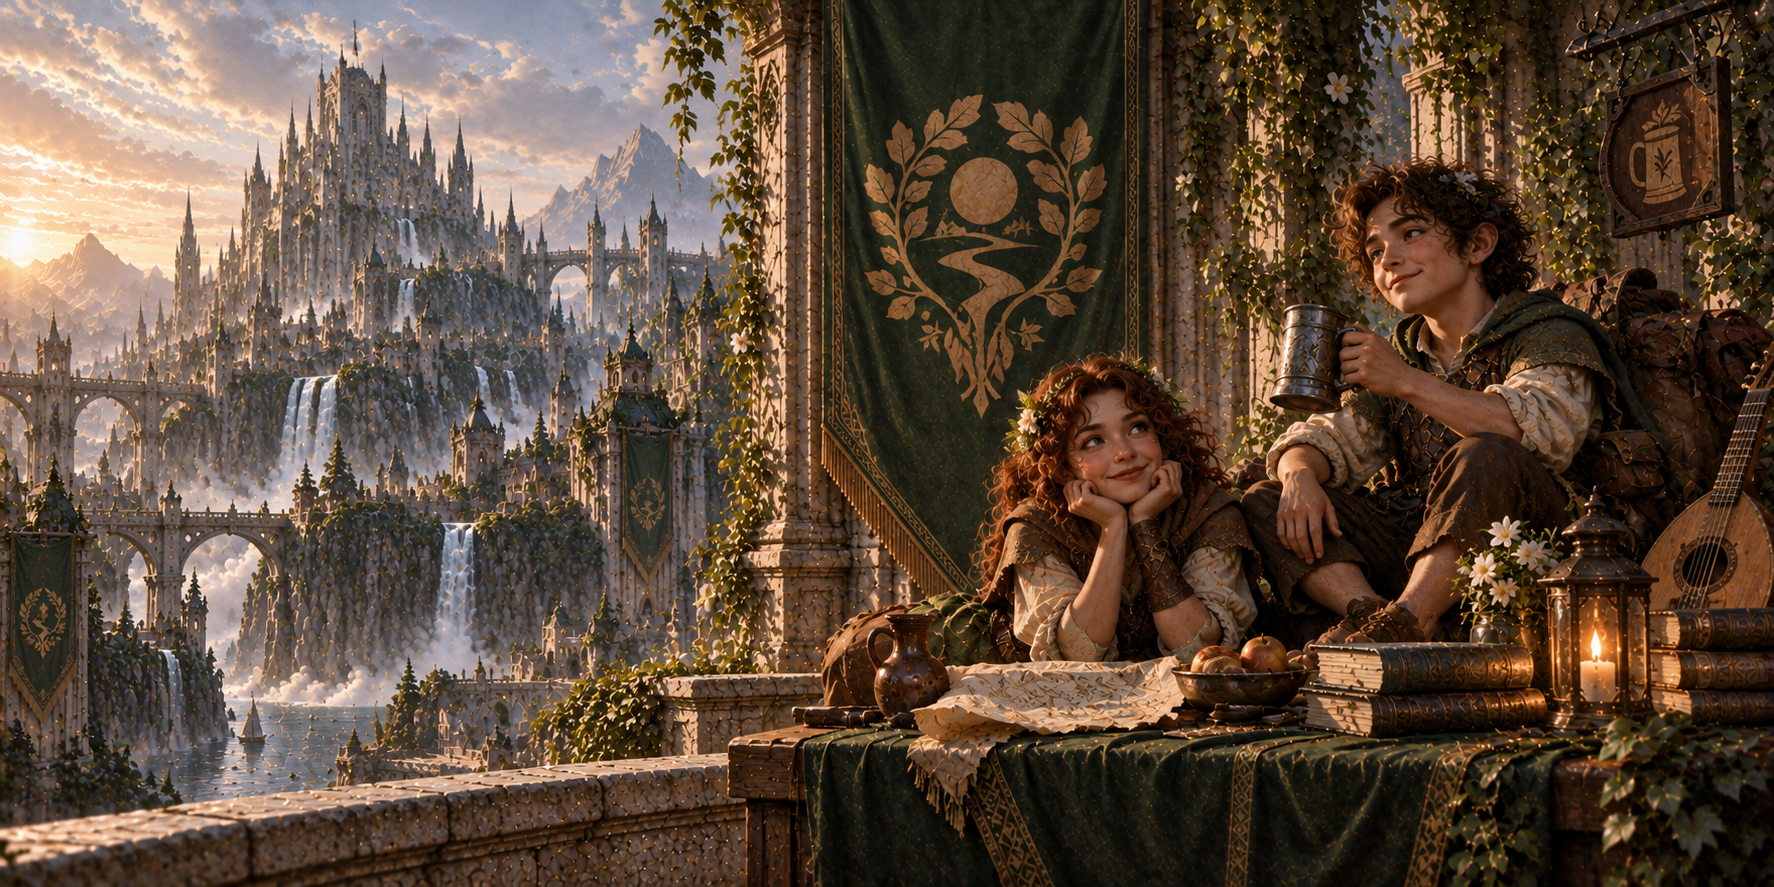
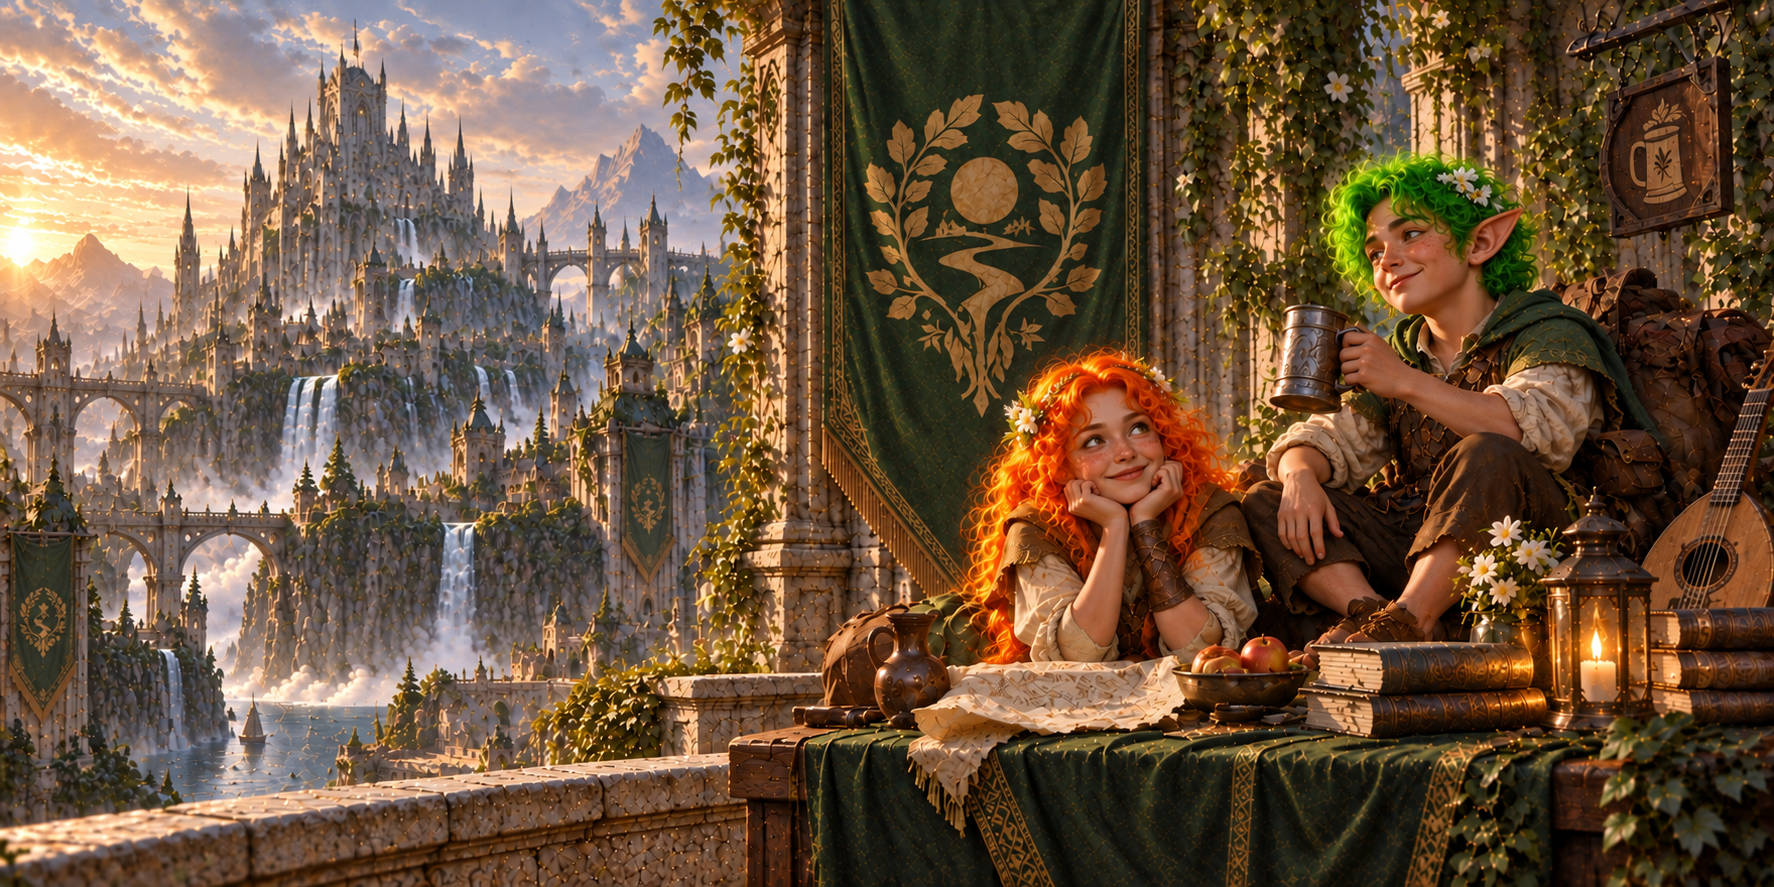
Rules and changes to Player's Handbook

diff --git a/components/rules/public-rules.tsx b/components/rules/public-rules.tsx
@@ -200,7 +200,7 @@ const categoryComparison =
             </p>
 
             <h1 className="mt-1 font-serif text-3xl leading-none text-[rgb(var(--sep-colour-ead5ac))] components_rules_public_rules_h1_rules">
-              Rules
+              Player's Handbook
             </h1>
           </div>
 
@@ -215,7 +215,7 @@ const categoryComparison =
               placeholder={
                 glossaryOpen
                   ? "Search glossary..."
-                  : "Search rules..."
+                  : "Search entry..."
               }
               className="h-9 min-w-0 flex-1 border border-[rgb(var(--sep-colour-60482e))]/45 bg-[rgb(var(--sep-colour-15100d))] px-3 text-xs text-[rgb(var(--sep-colour-d6c3a3))] outline-none placeholder:text-[rgb(var(--sep-colour-655c50))] focus:border-[rgb(var(--sep-colour-9a7445))] components_rules_public_rules_input_field"
             />
@@ -250,7 +250,7 @@ const categoryComparison =
     .join(" ")}
 >
   {glossaryOpen
-    ? "← Back to Rules"
+    ? "← Back to Player's Handbook"
     : "Glossary"}
 </button>
           </div>
@@ -316,7 +316,7 @@ const categoryComparison =
 >
             <div className="flex h-9 items-center justify-between border-b border-[rgb(var(--sep-colour-60482e))]/35 px-3 components_rules_public_rules_div_container_5">
               <p className="text-[8px] uppercase tracking-[0.2em] text-[rgb(var(--sep-colour-816a4d))] components_rules_public_rules_p_text">
-                Rule index
+                Index
               </p>
 
               <span className="text-[9px] text-[rgb(var(--sep-colour-756958))] components_rules_public_rules_span_text">
@@ -333,7 +333,7 @@ const categoryComparison =
               0 ? (
                 <p className="p-3 text-xs leading-5 text-[rgb(var(--sep-colour-766b5d))] components_rules_public_rules_p_text_2">
                   No matching published
-                  rules.
+                  entry.
                 </p>
               ) : (
                 <div className="space-y-1 components_rules_public_rules_div_container_7">
@@ -410,7 +410,7 @@ const categoryComparison =
       htmlFor="mobile-rule-select"
       className="mb-1.5 block text-[8px] uppercase tracking-[0.2em] text-[rgb(var(--sep-colour-816a4d))]"
     >
-      Choose Rule
+      Choose Entry
     </label>
 
     <select
@@ -487,7 +487,7 @@ const categoryComparison =
             />
           ) : (
             <div className="p-8 text-center text-sm text-[rgb(var(--sep-colour-7d7161))] components_rules_public_rules_div_container_8">
-              Select a rule from the
+              Select an entry from the
               index.
             </div>
           )}
@@ -539,7 +539,7 @@ function RulePanel({
     <>
       <header className="border-b border-[rgb(var(--sep-colour-60482e))]/35 px-5 py-4 sm:px-7 components_rules_public_rules_header_header_2">
         <p className="text-[7px] uppercase tracking-[0.24em] text-[rgb(var(--sep-colour-8d6f48))] components_rules_public_rules_p_text_3">
-          Official rule
+          Official entry
         </p>
 
         <h2 className="mt-1 font-serif text-2xl text-[rgb(var(--sep-colour-e2c99c))] components_rules_public_rules_h2_heading">
@@ -564,7 +564,7 @@ function RulePanel({
         0 ? (
           <div className="mt-6 border-t border-[rgb(var(--sep-colour-60482e))]/30 pt-4 components_rules_public_rules_div_container_10">
             <p className="mb-2 text-[8px] uppercase tracking-[0.19em] text-[rgb(var(--sep-colour-79664c))] components_rules_public_rules_p_text_4">
-              Related rules
+              Related Entry
             </p>
 
             <div className="flex flex-wrap gap-2 components_rules_public_rules_div_container_11">
@@ -692,7 +692,7 @@ function GlossaryPanel({
                     }
                     className="mt-3 text-[8px] uppercase tracking-[0.15em] text-[rgb(var(--sep-colour-9a7547))] hover:text-[rgb(var(--sep-colour-dfbd84))] components_rules_public_rules_button_related_rule"
                   >
-                    Related rule →
+                    Related entry →
                   </button>
                 ) : null}
               </article>

diff --git a/components/portal/mobile-portal-navigation.tsx b/components/portal/mobile-portal-navigation.tsx
@@ -772,10 +772,10 @@ const moreDragging =
 
   const ruleEntry: LinkEntry = {
     href: "/rules",
-    label: "Rules",
+    label: "Player's Handbook",
     icon: "/icons/rules.png",
     modal: {
-      label: "Rules",
+      label: "Player's Handbook",
       title:
         "Read the official game rules and off-game documentation.",
       icon: "/icons/rules.png",
@@ -1335,7 +1335,7 @@ const moreDragging =
                           src="/icons/rules.png"
                         />
                         <span className="min-w-0 flex-1 truncate text-[10px] uppercase tracking-[0.16em] !text-[rgb(var(--sep-colour-b6a894))] components_portal_mobile_portal_navigation_span_text_4">
-                          Rules
+                          Player's Handbook
                         </span>
                       </button>
 

diff --git a/app/(portal)/admin/rules/page.tsx b/app/(portal)/admin/rules/page.tsx
@@ -154,7 +154,7 @@ export default async function AdminRulesPage() {
             rel="noreferrer"
             className="border border-[rgb(var(--sep-colour-60482e))]/45 bg-[rgb(var(--sep-colour-17110d))] px-3 py-2 text-[8px] uppercase tracking-[0.15em] text-[rgb(var(--sep-colour-a78d68))] hover:border-[rgb(var(--sep-colour-8d693e))] hover:text-[rgb(var(--sep-colour-d8bb8a))] admin_rules_page_a_view_public_rules"
           >
-            View public Rules ↗
+            View Player's Handbook ↗
           </a>
         </header>
 

diff --git a/components/homepage/sepulchria-homepage.tsx b/components/homepage/sepulchria-homepage.tsx
@@ -23,7 +23,7 @@ const PRIMARY_LINKS = [
     icon: "/icons/homepage/codex.png",
   },
   {
-    label: "Rules",
+    label: "Player's Handbook",
     eyebrow: "Understand",
     href: "/rules",
     icon: "/icons/homepage/rules.png",
@@ -810,7 +810,7 @@ export function SepulchriaHomepage({
   onClick={() => {
     setAboutOpen(false);
     setPublicModal({
-      title: "Rules",
+      title: "Player's Handbook",
       href: "/rules",
     });
   }}

diff --git a/app/globals.css b/app/globals.css
@@ -21238,6 +21238,13 @@ background: rgb(var(--sep-colour-100c09) / 80%) !important;
 }
 
 
+.components_rules_public_rules_section_section,
+.components_rules_public_rules_aside_sidebar,
+.components_codex_public_codex_div_codex_chapter_3 {
+background: rgb(var(--sep-colour-100c09) / 60%) !important;
+}
+
+
 .sep-notification-read,
 .messages_new_page_section_new_message,
 .components_characters_character_ledger_section_sectionm

diff --git a/app/rules/page.tsx b/app/rules/page.tsx
@@ -6,7 +6,7 @@ import { PublicRules } from "@/components/rules/public-rules";
 import { getPublicRules } from "@/lib/rules/get-public-rules";
 
 export const metadata: Metadata = {
-  title: "Rules | Sepulchria",
+  title: "Player's Handbook | Sepulchria",
   description:
     "Official offgame rules and gameplay documentation for Sepulchria.",
 };

diff --git a/app/(portal)/admin/layout.tsx b/app/(portal)/admin/layout.tsx
@@ -250,7 +250,7 @@ export default async function AdminLayout({
 
             {can("rules") ? (
               <AdminNavigationLink href="/admin/rules">
-                Rules
+                Player's Handbook
               </AdminNavigationLink>
             ) : null}
 

diff --git a/components/notifications/notification-bell.tsx b/components/notifications/notification-bell.tsx
@@ -70,7 +70,7 @@ const MODAL_ROUTES: ModalRouteDefinition[] = [
   },
   {
     prefix: "/rules",
-    label: "Rules",
+    label: "Players' Handbook",
     title: "Read the official game rules and documentation.",
     icon: "/icons/rules.png",
   },

diff --git a/components/portal/portal-sidebar.tsx b/components/portal/portal-sidebar.tsx
@@ -96,7 +96,7 @@ const codexItem: NavigationItem = {
 };
 
 const rulesItem: NavigationItem = {
-  label: "Rules",
+  label: "Player's Handbook",
   title:
     "Read the official game rules and off-game documentation.",
   icon: "/icons/rules.png",
